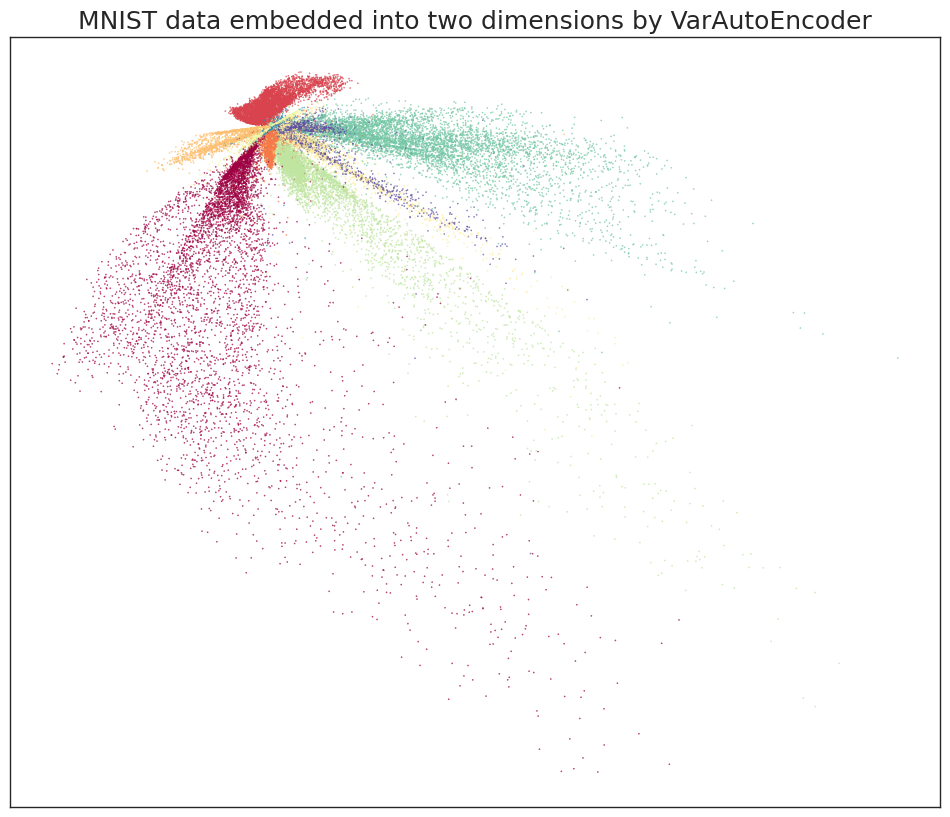
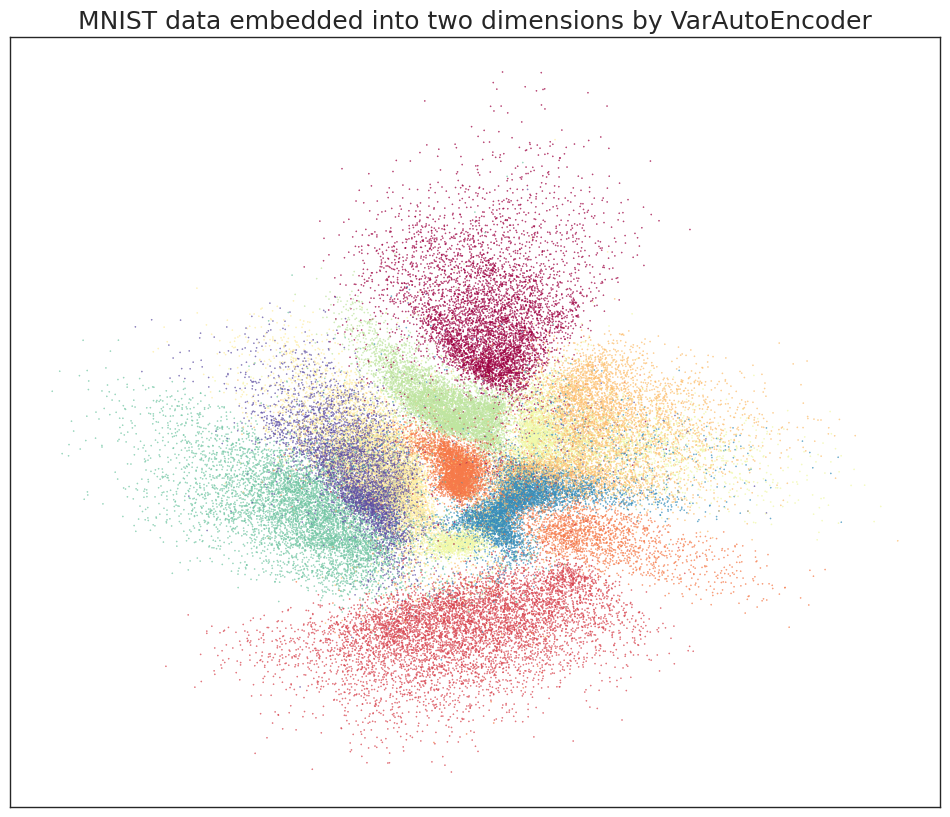
correct bugs in var autoencoder

Changed region(s): [[0.0611, 0.0918, 0.8242, 0.8874]]

diff --git a/4_variational_autoencoder.py b/4_variational_autoencoder.py
@@ -75,11 +75,10 @@ print(var_ae_model)
 
 # Training 
 
-loss_fn = nn.MSELoss()
-optimizer = torch.optim.Adam(var_ae_model.parameters(), lr=0.01)
+optimizer = torch.optim.Adam(var_ae_model.parameters())
 
-n_epochs = 10
-ae_low_model = var_ae_model.train()
+n_epochs = 20
+var_ae_model = var_ae_model.train()
 
 for epoch in range(n_epochs):
 
@@ -93,7 +92,8 @@ for epoch in range(n_epochs):
 
         estimated_outputs = var_ae_model(inputs)
 
-        loss = loss_fn(estimated_outputs, inputs.flatten(1))
+        loss = ((estimated_outputs - inputs.flatten(1))**2).sum() + \
+            var_ae_model.encoder.kl
         loss.backward()
         optimizer.step()
 
@@ -143,3 +143,29 @@ def plot_reconstructed(autoencoder, r0=(-5, 10), r1=(-10, 5), n=12):
     plt.imshow(img, extent=[*r0, *r1])
 
 plot_reconstructed(var_ae_model)
+
+# Interpolation
+
+def interpolate(autoencoder, x_1, x_2, n=12):
+    z_1 = autoencoder.encoder(x_1.flatten(1))
+    z_2 = autoencoder.encoder(x_2.flatten(1))
+    z = torch.stack([z_1 + (z_2 - z_1)*t for t in np.linspace(0, 1, n)])
+    interpolate_list = autoencoder.decoder(z)
+    interpolate_list = interpolate_list.to('cpu').detach().numpy()
+
+    w = 28
+    img = np.zeros((w, n*w))
+    for i, x_hat in enumerate(interpolate_list):
+        img[:, i*w:(i+1)*w] = x_hat.reshape(28, 28)
+    plt.imshow(img)
+    plt.xticks([])
+    plt.yticks([])
+    
+digit_1 = 1
+digit_2 = 7
+
+x, y = mnist_dataloader.__iter__().next() # hack to grab a batch
+x_1 = x[y == digit_1][1].to(device) # find a 1
+x_2 = x[y == digit_2][1].to(device) # find a 0
+
+interpolate(var_ae_model, x_1, x_2, n=30)
